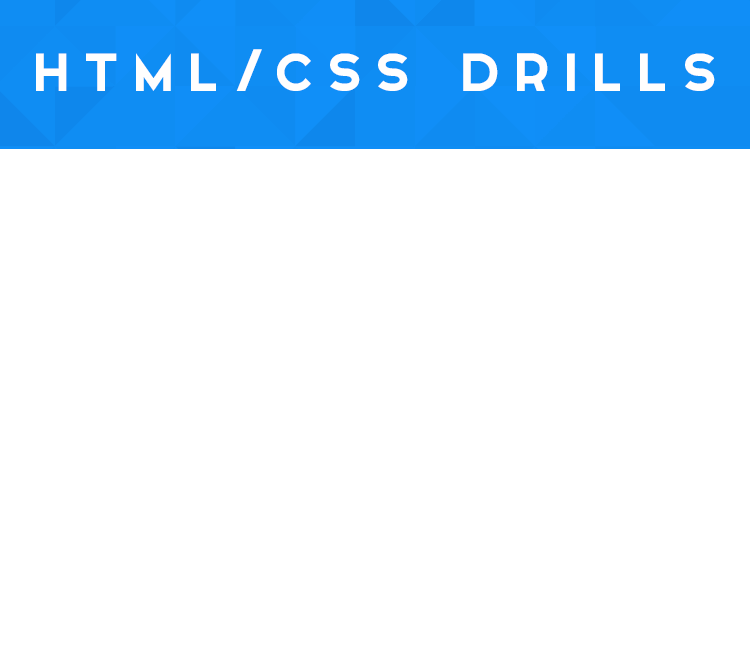
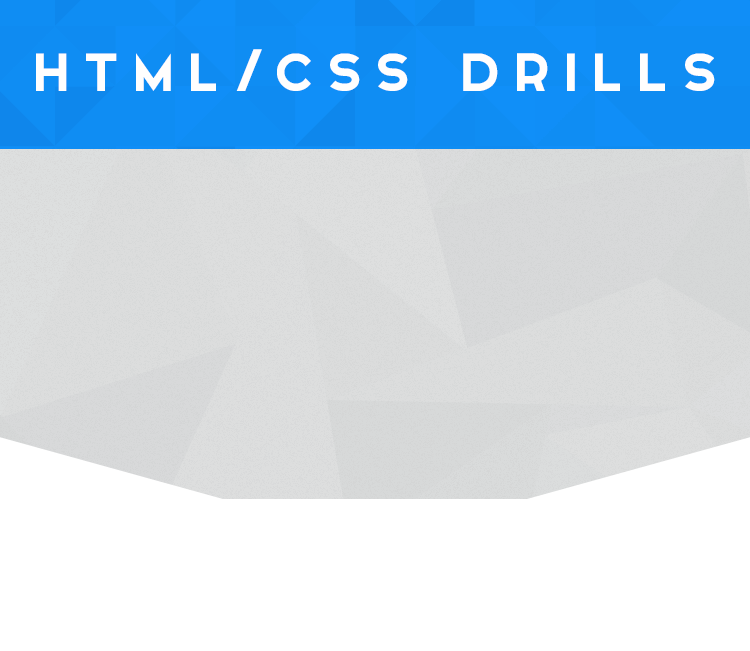
changed background color of nav and body

diff --git a/app/assets/stylesheets/bootstrap_sass.scss b/app/assets/stylesheets/bootstrap_sass.scss
@@ -3,7 +3,6 @@
 
 .navbar{
   margin: 0px;
-  background: #1c1c1c;
 }
 .navbar a{
   font-size: 2em;

diff --git a/app/assets/stylesheets/home.scss b/app/assets/stylesheets/home.scss
@@ -1,7 +1,3 @@
-body {
-  background: #585858;
-}
-
 .button {
   transition: .3s;
 }
